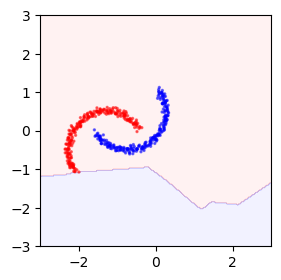
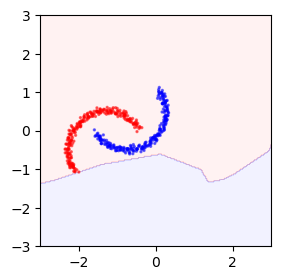
'modify'

diff --git a/synthetic/main.py b/synthetic/main.py
@@ -15,13 +15,13 @@ def parse_arguments():
     parser.add_argument('--rot', default=50, type=float)
     parser.add_argument('--tran', default=1.0, type=float)
     parser.add_argument('--sep', default=-0.5, type=float)
-    parser.add_argument('--figdir', default='docs', type=str)
-    parser.add_argument('--compare_tent_shot', default=True, type=str)
+    parser.add_argument('--figdir', default=None, type=str)
+    parser.add_argument('--compare_tent_shot', default=False, type=str)
     args = parser.parse_args()
     return args
 
 
-def run_experiment(rot, tran, sep, figdir=None, seed=2021):
+def run_experiment(rot, tran, sep, figdir=None, seed=2021, compare_tent_shot=False):
     torch.manual_seed(seed)
     np.random.seed(seed)
 
@@ -66,7 +66,8 @@ def run_experiment(rot, tran, sep, figdir=None, seed=2021):
     with torch.no_grad():
         _, _, z_s = net(input_s)
         mu, sigma = algo.summarize(z_s)
-    if args.compare_tent_shot == False:
+    
+    if compare_tent_shot == False:
         # Explore the effects of Task Relation and Domain shift on TTT and TTT++
         result[0:5] = [tran, rot, sep, corr.item(), acc[0].item()]
         # TTT
@@ -144,4 +145,4 @@ def run_experiment(rot, tran, sep, figdir=None, seed=2021):
 
 if __name__ == "__main__":
     args = parse_arguments()
-    run_experiment(args.rot, args.tran, args.sep, args.figdir)
+    run_experiment(args.rot, args.tran, args.sep, args.figdir, seed=2021, compare_tent_shot=args.compare_tent_shot)

diff --git a/synthetic/algo.py b/synthetic/algo.py
@@ -92,8 +92,9 @@ def tent_adapt(net, x, y, a, niter=50000):
     # adapt model at test time
     lr = 1e-3
     optimizer = optim.Adam(net.parameters(), lr=lr)
+    acc_best, _ = test(net, x, y, a)
     tent_model = tent.Tent(net, optimizer)
-    acc_best = 0
+
     for i in range(niter):
 
         outputs = tent_model(x)
@@ -104,7 +105,7 @@ def tent_adapt(net, x, y, a, niter=50000):
                 acc_best = acc
                 net_bkp = copy.deepcopy(net.state_dict())
 
-    return acc, net_bkp
+    return acc_best, net_bkp
 
 def shot_adapt(net, x, y, a, niter=50000):
     ext = net.encoder
@@ -113,8 +114,7 @@ def shot_adapt(net, x, y, a, niter=50000):
     lr = 1e-3
     cls_par = 1e-3
     optimizer = optim.Adam(net.parameters(), lr=lr)
-
-    acc_best = 0
+    acc_best, _ = test(net, x, y, a)
 
     for i in range(niter):
         ext.eval()

diff --git a/synthetic/experiment.py b/synthetic/experiment.py
@@ -1,0 +1,17 @@
+"""System module."""
+import time
+import numpy as np
+import pandas as pd
+import main
+
+start = time.time()
+Results = np.zeros((5 * 5 * 5, 7))
+i = 0
+for tran in (0.2, 0.4, 0.6, 0.8, 1.0):
+    for rot in (30, 40, 50, 60, 70):
+        for sep in (-0.3, -0.4, -0.5, -0.6, -0.7):
+            print("tran:{0}   rot:{1},  sep:{2}".format(tran, rot, sep))
+            Results[i] = main.run_experiment(tran=tran, rot=rot, sep=sep, seed=2021, compare_tent_shot=True)
+            i += 1
+data = pd.DataFrame(Results, columns=['tran', 'rot', 'sep', 'test', 'ttt++', 'tent', 'shot'])
+data.to_csv("docs/result.csv")

diff --git a/synthetic/tent.py b/synthetic/tent.py
@@ -53,7 +53,7 @@ def forward_and_adapt(x, model, optimizer):
 
     Measure entropy of the model prediction, take gradients, and update params.
     """
-    model.train()
+    # model.train()
     # forward
     outputs, _, _ = model(x)
     # adapt
